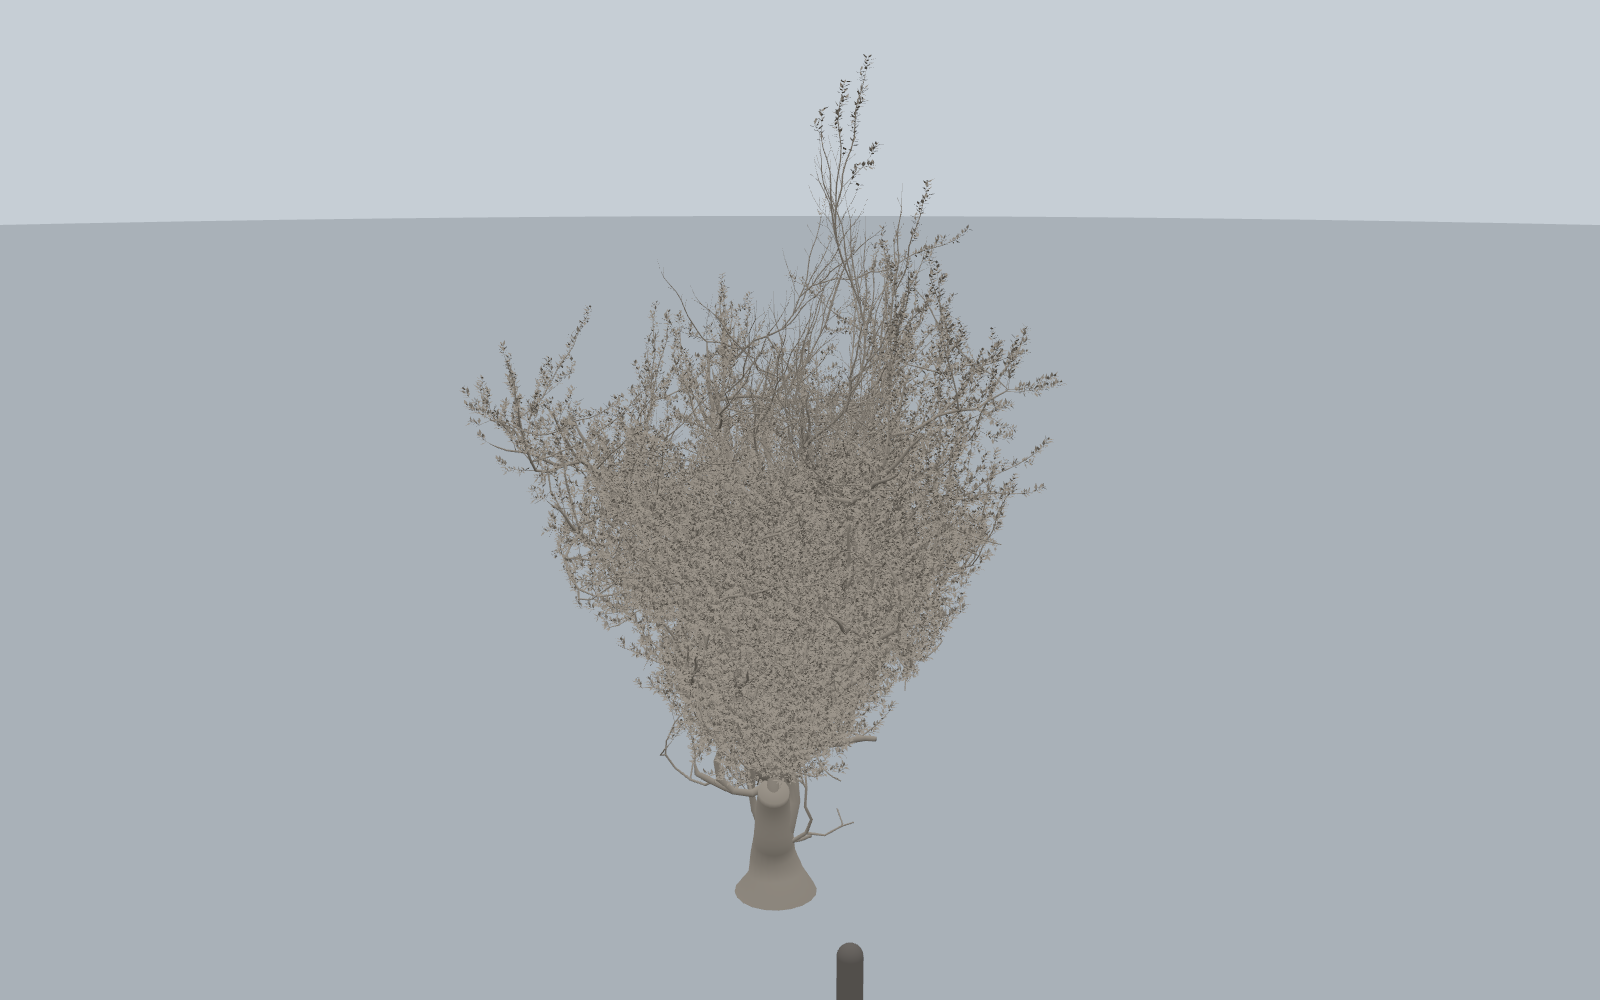
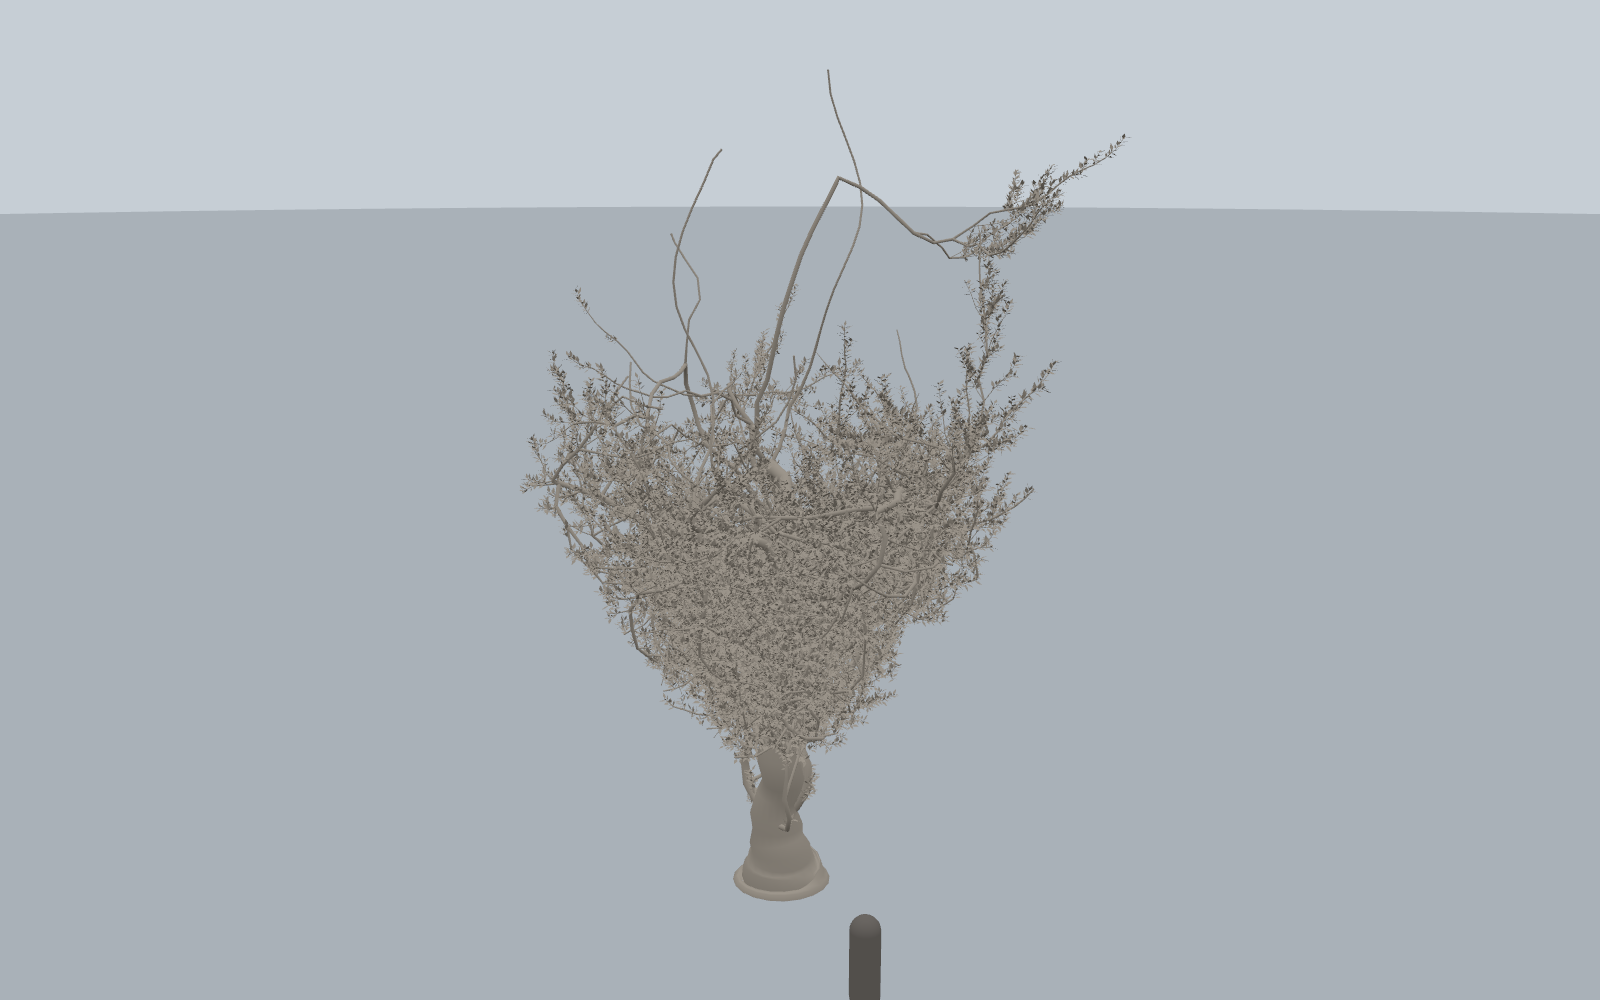
test(growth): re-pin measured trees and capture the age strips
Move identity, Ordinary audit and clay look pins once after b64ea90 records pre-change and final convergence for all five presets. Leaf element hashes, assertions, tolerances, cameras and shaders remain unchanged. Render the full seed-7 age protocol natively after the small previews, with numeric above-ground framing for year one, and retain strips and mature comparisons beside fn-30. Owner slots remain empty.

diff --git a/crates/telperion-core/tests/identity.rs b/crates/telperion-core/tests/identity.rs
@@ -16,6 +16,10 @@
 //! Annual frontier visits change wood and living-shoot placements; element
 //! hashes stay fixed. This test now hashes the production grown skeleton too.
 //! Node bounds and the resulting mesh bounds/counts are in .flow/evidence/fn30/REPORT.md.
+//! fn-31 re-pins once after CONVERGENCE.md records the final growth populations:
+//! oak 196901 -> 19513 nodes, spruce 76386 -> 65604. Establishment, retained
+//! structural buds and age-dependent pipe scale change the wood and contacts;
+//! both element hashes remain unchanged. The report records mesh bounds/counts.
 //! No device is needed; this is the core's own arithmetic.
 use telperion_core::{
     branching::Specimen,
@@ -51,32 +55,28 @@ const SEED: u32 = 7;
 const PINS: [Pin; 2] = [
     Pin {
         id: "oregon-white-oak",
-        wood_vertices: 5966860,
-        wood_triangles: 11564840,
-        instances: 1175265,
+        wood_vertices: 717466,
+        wood_triangles: 1375440,
+        instances: 132875,
         min: [
-            -12.660554941030515,
-            -0.09600000083446503,
-            -13.064155719625399,
+            -12.141538173961731,
+            -0.32723867893218994,
+            -12.581686986441456,
         ],
-        max: [13.276412718982542, 23.817030705282615, 13.087342970966304],
-        skeleton: 2069374647478841013,
-        placement: 15826952556907210550,
+        max: [13.143301523266894, 24.020887122881813, 13.116854407483443],
+        skeleton: 17147586106779270108,
+        placement: 3545768933671885177,
         element: 4207404028969543471,
     },
     Pin {
         id: "norway-spruce",
-        wood_vertices: 2515982,
-        wood_triangles: 4852280,
-        instances: 5463221,
-        min: [
-            -3.8689955989331346,
-            -0.05999999865889549,
-            -4.169345860968122,
-        ],
-        max: [3.8295214987058834, 15.0, 4.083653705781007],
-        skeleton: 9830532764016443315,
-        placement: 10177991485176080717,
+        wood_vertices: 2186602,
+        wood_triangles: 4214200,
+        instances: 4810878,
+        min: [-4.065886488186079, -0.2574246823787689, -3.9355183191281506],
+        max: [3.846896851279939, 15.0, 3.757709161827148],
+        skeleton: 16388404269218903040,
+        placement: 11831058783261786492,
         element: 7287062639823569932,
     },
 ];

diff --git a/crates/telperion-core/src/branching/audit.rs b/crates/telperion-core/src/branching/audit.rs
@@ -126,6 +126,9 @@ fn scaffold_directions() {
 /// Oak and spruce already disabled shedding and keep their hashes. The measured
 /// convergence precedes the pin move in .flow/evidence/fn30/REPORT.md; production
 /// growth identity is pinned separately by tests/identity.rs.
+/// fn-31 restores the authored 0.45 threshold and its original Ordinary hash.
+/// CONVERGENCE.md records the return before this single pin move; the legacy
+/// species hashes and every exact assertion remain unchanged.
 #[test]
 fn shipped_scaffolds_are_reproducible() {
     // fn-11: one re-pin for pinned pure-Rust libm on native and wasm.
@@ -133,7 +136,7 @@ fn shipped_scaffolds_are_reproducible() {
     for (preset, expected) in [
         (Preset::OregonWhiteOak, 11389017044164293456_u64),
         (Preset::NorwaySpruce, 17659250574543300401),
-        (Preset::Ordinary, 4584312898131064280),
+        (Preset::Ordinary, 9848876633805652422),
     ] {
         let family = preset.parameters();
         let hash = hashed(&family);

diff --git a/.flow/evidence/fn31/gates.py b/.flow/evidence/fn31/gates.py
@@ -1,0 +1,20 @@
+"""Run every requested gate in full, preserving every exit and unedited log."""
+import json
+import subprocess
+from pathlib import Path
+root=Path(__file__).resolve().parents[3]
+out=root/'.flow/evidence/fn31'
+rows=[]
+for command,name in [
+    ('cargo fmt --all -- --check','fmt-final'),
+    ('cargo clippy --workspace --all-targets -- -D warnings','clippy-final'),
+    ('cargo test --release --workspace','workspace-final'),
+    ('npm test','npm-final'),
+    ('npm run typecheck','typecheck-final')]:
+    log=out/'logs'/f'{name}.log'
+    print('RUN',command,flush=True)
+    with log.open('w') as stream:
+        r=subprocess.run(command,shell=True,cwd=root,stdout=stream,stderr=stream)
+    rows.append({'command':command,'exit':r.returncode,'log':str(log)})
+    (out/'gates-final.json').write_text(json.dumps(rows,indent=2)+'\n')
+    print('EXIT',r.returncode,str(log),flush=True)

diff --git a/crates/telperion-render/tests/look.rs b/crates/telperion-render/tests/look.rs
@@ -20,6 +20,9 @@ use common::gpu;
 /// (173 years) with a zero shedding threshold, so the clay room draws a
 /// different skeleton (49,262 nodes against 9,240); the drift tolerances are
 /// unchanged (.flow/evidence/fn30/REPORT.md).
+/// fn-31 re-records once after its CONVERGENCE.md: seed-7 Ordinary retains
+/// 16,066 nodes at 173 years with the authored 0.45 threshold and sapling rule.
+/// The capture command, camera, shaders and drift limits stay unchanged.
 const PINNED: &str = concat!(
     env!("CARGO_MANIFEST_DIR"),
     "/../../.flow/evidence/fn24/ordinary-hero.png"
